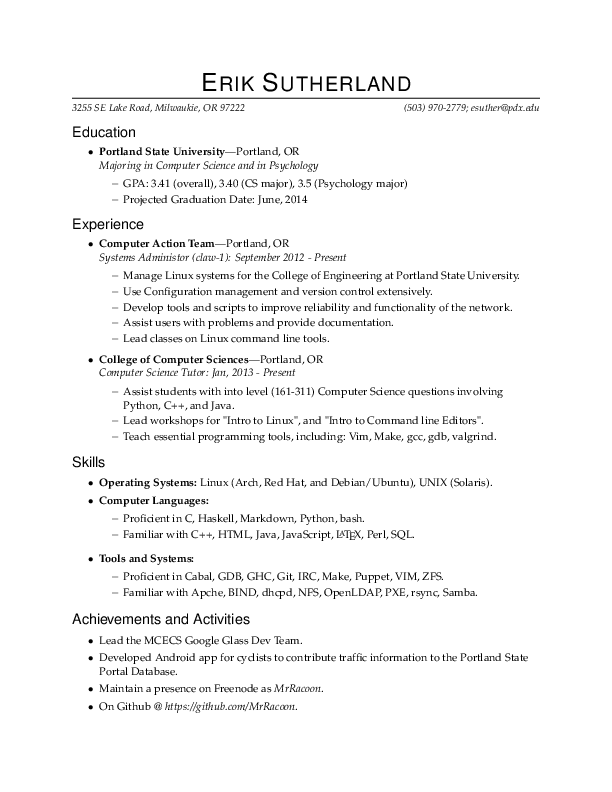
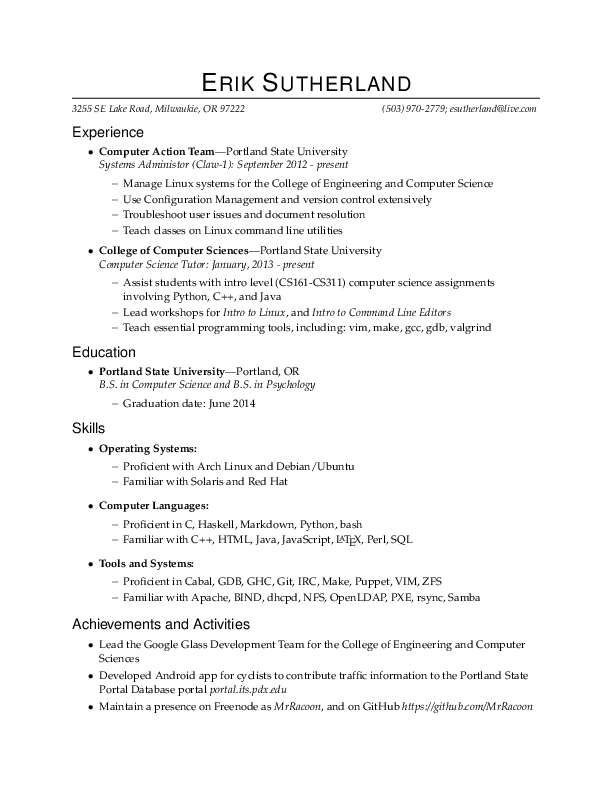
Updated on Sun Feb 23 17:20:00 PST 2014
Had my editor review and assist in making changes.

Changed region(s): [[0.1242, 0.1212, 0.8693, 0.9091], [0.6209, 0.1212, 0.8693, 0.1515]]

diff --git a/resume.tex b/resume.tex
@@ -1,6 +1,5 @@
 % Erik Sutherland's Resume
-% Created: 7 Jan 2004
-% Last Modified: 17 Jul 2004
+% Created: 22 Feb, 2014
 
 \documentclass[11pt,oneside]{article}
 \usepackage{geometry}
@@ -19,8 +18,7 @@
 \newcommand{\name}{Erik Sutherland}
 \newcommand{\addr}{3255 SE Lake Road, Milwaukie, OR 97222}
 \newcommand{\phone}{(503) 970-2779}
-\newcommand{\email}{esuther@pdx.edu}
-
+\newcommand{\email}{esutherland@live.com}
 
 %%%%%%%%%%%%%%%%%%%%%%%%%%%%%%%%%%%%%%%%%%%%%%%%%%%%%%%%%
 % New commands and environments
@@ -82,93 +80,64 @@
 }
 
 
-
 %%%%%%%%%%%%%%%%%%%%%%%%%%%%%%%%%%%%%%%%%%%%%%%%%%%%%%%%%
 % Now for the actual document:
 
 \begin{document}
-
 \fontfamily{ppl} \selectfont
-
 % Name with horizontal rule
 \bigname{\name}
-
 \vspace{-8pt} \rule{\textwidth}{1pt}
-
 \vspace{-1pt} {\small\itshape \addr \hfill \phone; \email}
-
 \vspace{8 pt}
-
-
-
-
-%%%%%%%%%%%%%%%%%%%%%%%%
-\begin{ressection}{Education}
-
-    \begin{ressubsec}{Portland State University}{Portland, OR}{Majoring in Computer Science and in Psychology}
-		\ressubitem{GPA: 3.41 (overall), 3.40 (CS major), 3.5 (Psychology major)}
-		\ressubitem{Projected Graduation Date: June, 2014}
-	\end{ressubsec}
-
-\end{ressection}
 
 
 %%%%%%%%%%%%%%%%%%%%%%%%
 \begin{ressection}{Experience}
-
-    \begin{ressubsec}{Computer Action Team}{Portland, OR}{Systems Administor (claw-1): September 2012 - Present}
-		\ressubitem{Manage Linux systems for the College of Engineering at Portland State University.}
-		\ressubitem{Use Configuration management and version control extensively.}
-		\ressubitem{Develop tools and scripts to improve reliability and functionality of the network.}
-		\ressubitem{Assist users with problems and provide documentation.}
-        \ressubitem{Lead classes on Linux command line tools.}
+    \begin{ressubsec}{Computer Action Team}{Portland State University}{Systems Administor (Claw-1): September 2012 - present}
+		\ressubitem{Manage Linux systems for the College of Engineering and Computer Science}
+		\ressubitem{Use Configuration Management and version control extensively}
+		\ressubitem{Troubleshoot user issues and document resolution}
+        \ressubitem{Teach classes on Linux command line utilities}
 	\end{ressubsec}
-
-	\begin{ressubsec}{College of Computer Sciences}{Portland, OR}{Computer Science Tutor: Jan, 2013 - Present}
-        \ressubitem{Assist students with into level (161-311) Computer Science questions involving Python, C++, and Java.}
-        \ressubitem{Lead workshops for "Intro to Linux", and "Intro to Command line Editors".}
-        \ressubitem{Teach essential programming tools, including: Vim, Make, gcc, gdb, valgrind.}
+	\begin{ressubsec}{College of Computer Sciences}{Portland State University}{Computer Science Tutor: January, 2013 - present}
+        \ressubitem{Assist students with intro level (CS161-CS311) computer science assignments involving Python, C++, and Java}
+        \ressubitem{Lead workshops for \textit{Intro to Linux}, and \textit{Intro to Command Line Editors}}
+        \ressubitem{Teach essential programming tools, including: vim, make, gcc, gdb, valgrind}
 	\end{ressubsec}
+\end{ressection}
 
+
+%%%%%%%%%%%%%%%%%%%%%%%%
+\begin{ressection}{Education}
+    \begin{ressubsec}{Portland State University}{Portland, OR}{B.S. in Computer Science and B.S. in Psychology}
+		\ressubitem{Graduation date: June 2014}
+	\end{ressubsec}
 \end{ressection}
 
 
 %%%%%%%%%%%%%%%%%%%%%%%%
 \begin{ressection}{Skills}
-
-    \resitem{\textbf{Operating Systems:} Linux (Arch, Red Hat, and Debian/Ubuntu), UNIX (Solaris).}
-
+    \begin{reslist}{Operating Systems:}
+        \ressubitem{Proficient with Arch Linux and Debian/Ubuntu}
+        \ressubitem{Familiar with Solaris and Red Hat}
+	\end{reslist}
 	\begin{reslist}{Computer Languages:}
-
-        \ressubitem{Proficient in C, Haskell, Markdown, Python, bash.}
-
-        \ressubitem{Familiar with C++, HTML, Java, JavaScript, \LaTeX, Perl, SQL.}
-
+        \ressubitem{Proficient in C, Haskell, Markdown, Python, bash}
+        \ressubitem{Familiar with C++, HTML, Java, JavaScript, \LaTeX, Perl, SQL}
 	\end{reslist}
-
 	\begin{reslist}{Tools and Systems:}
-
-        \ressubitem{Proficient in Cabal, GDB, GHC, Git, IRC, Make, Puppet, VIM, ZFS.}
-
-        \ressubitem{Familiar with Apche, BIND, dhcpd, NFS, OpenLDAP, PXE, rsync, Samba.}
-
+        \ressubitem{Proficient in Cabal, GDB, GHC, Git, IRC, Make, Puppet, VIM, ZFS}
+        \ressubitem{Familiar with Apache, BIND, dhcpd, NFS, OpenLDAP, PXE, rsync, Samba}
 	\end{reslist}
-
-
 \end{ressection}
 
 
 %%%%%%%%%%%%%%%%%%%%%%%%
 \begin{ressection}{Achievements and Activities}
-
-    \resitem{Lead the MCECS Google Glass Dev Team.}
-
-    \resitem{Developed Android app for cyclists to contribute traffic information to the Portland State Portal Database.}
-
-    \resitem{Maintain a presence on Freenode as \textit{MrRacoon}.}
-
-    \resitem{On Github @ \textit{https://github.com/MrRacoon}.}
-
+    \resitem{Lead the Google Glass Development Team for the College of Engineering and Computer Sciences}
+    \resitem{Developed Android app for cyclists to contribute traffic information to the Portland State Portal Database portal \textit{portal.its.pdx.edu}}
+    \resitem{Maintain a presence on Freenode as \textit{MrRacoon}, and on GitHub \textit{https://github.com/MrRacoon}}
 \end{ressection}
 
 
